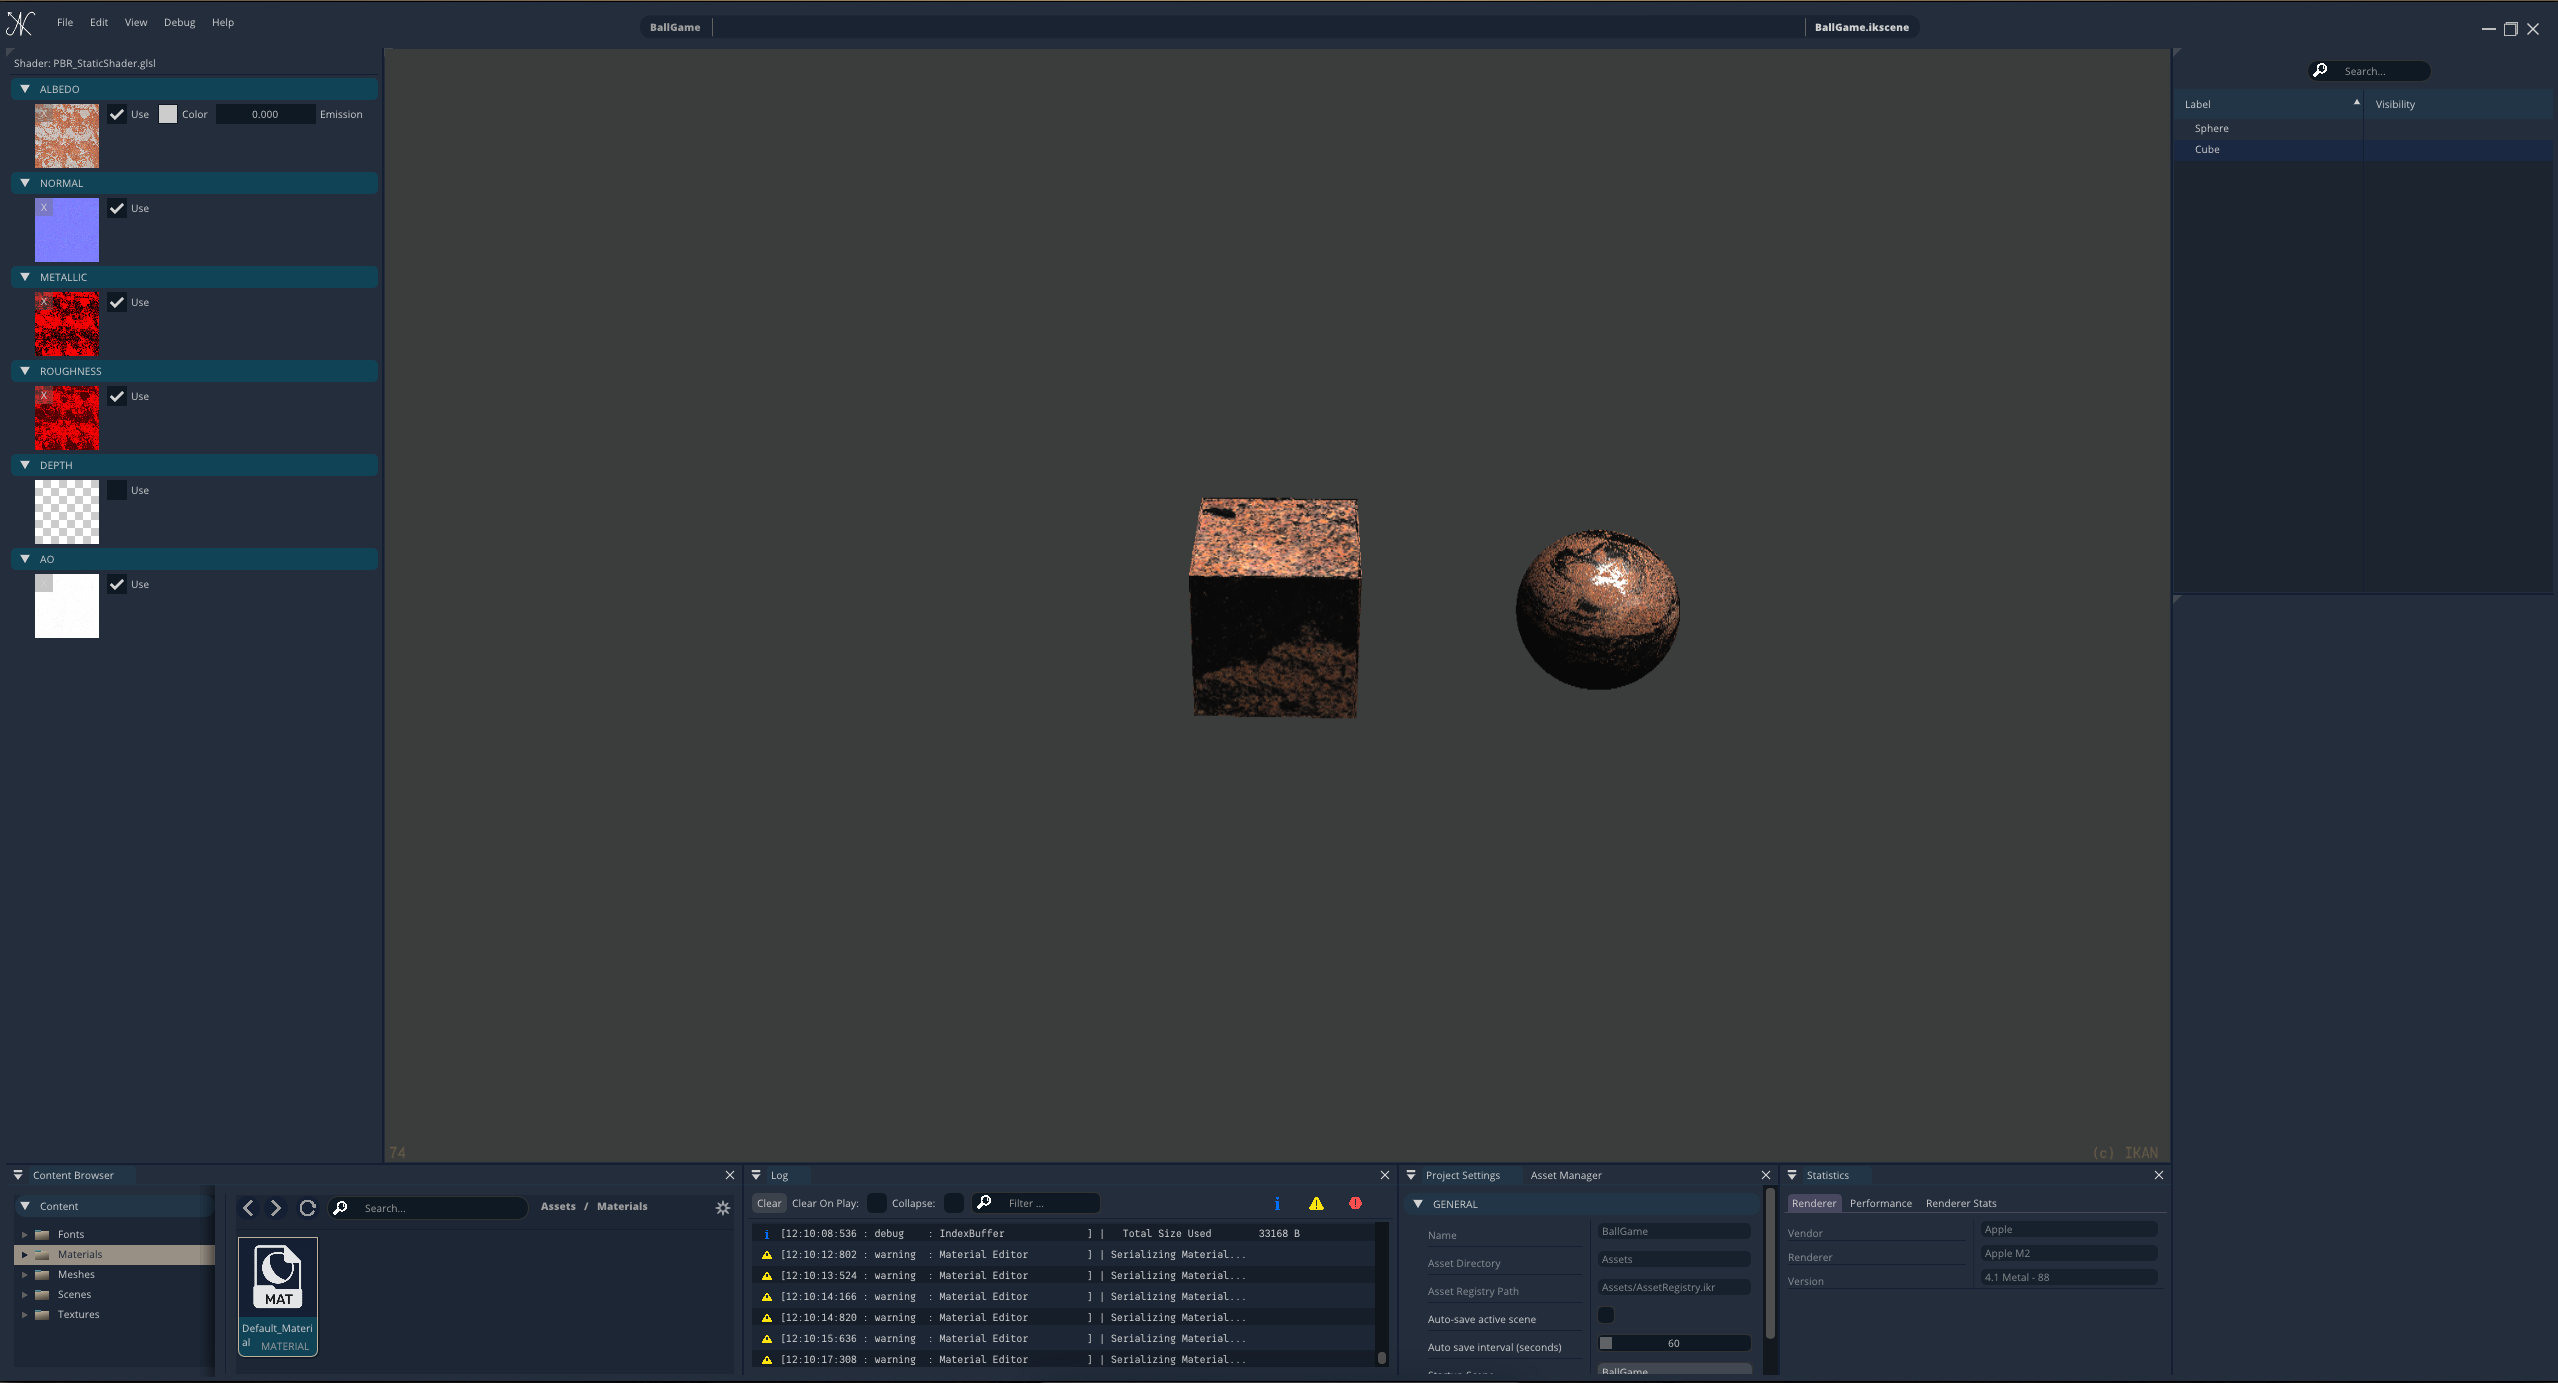
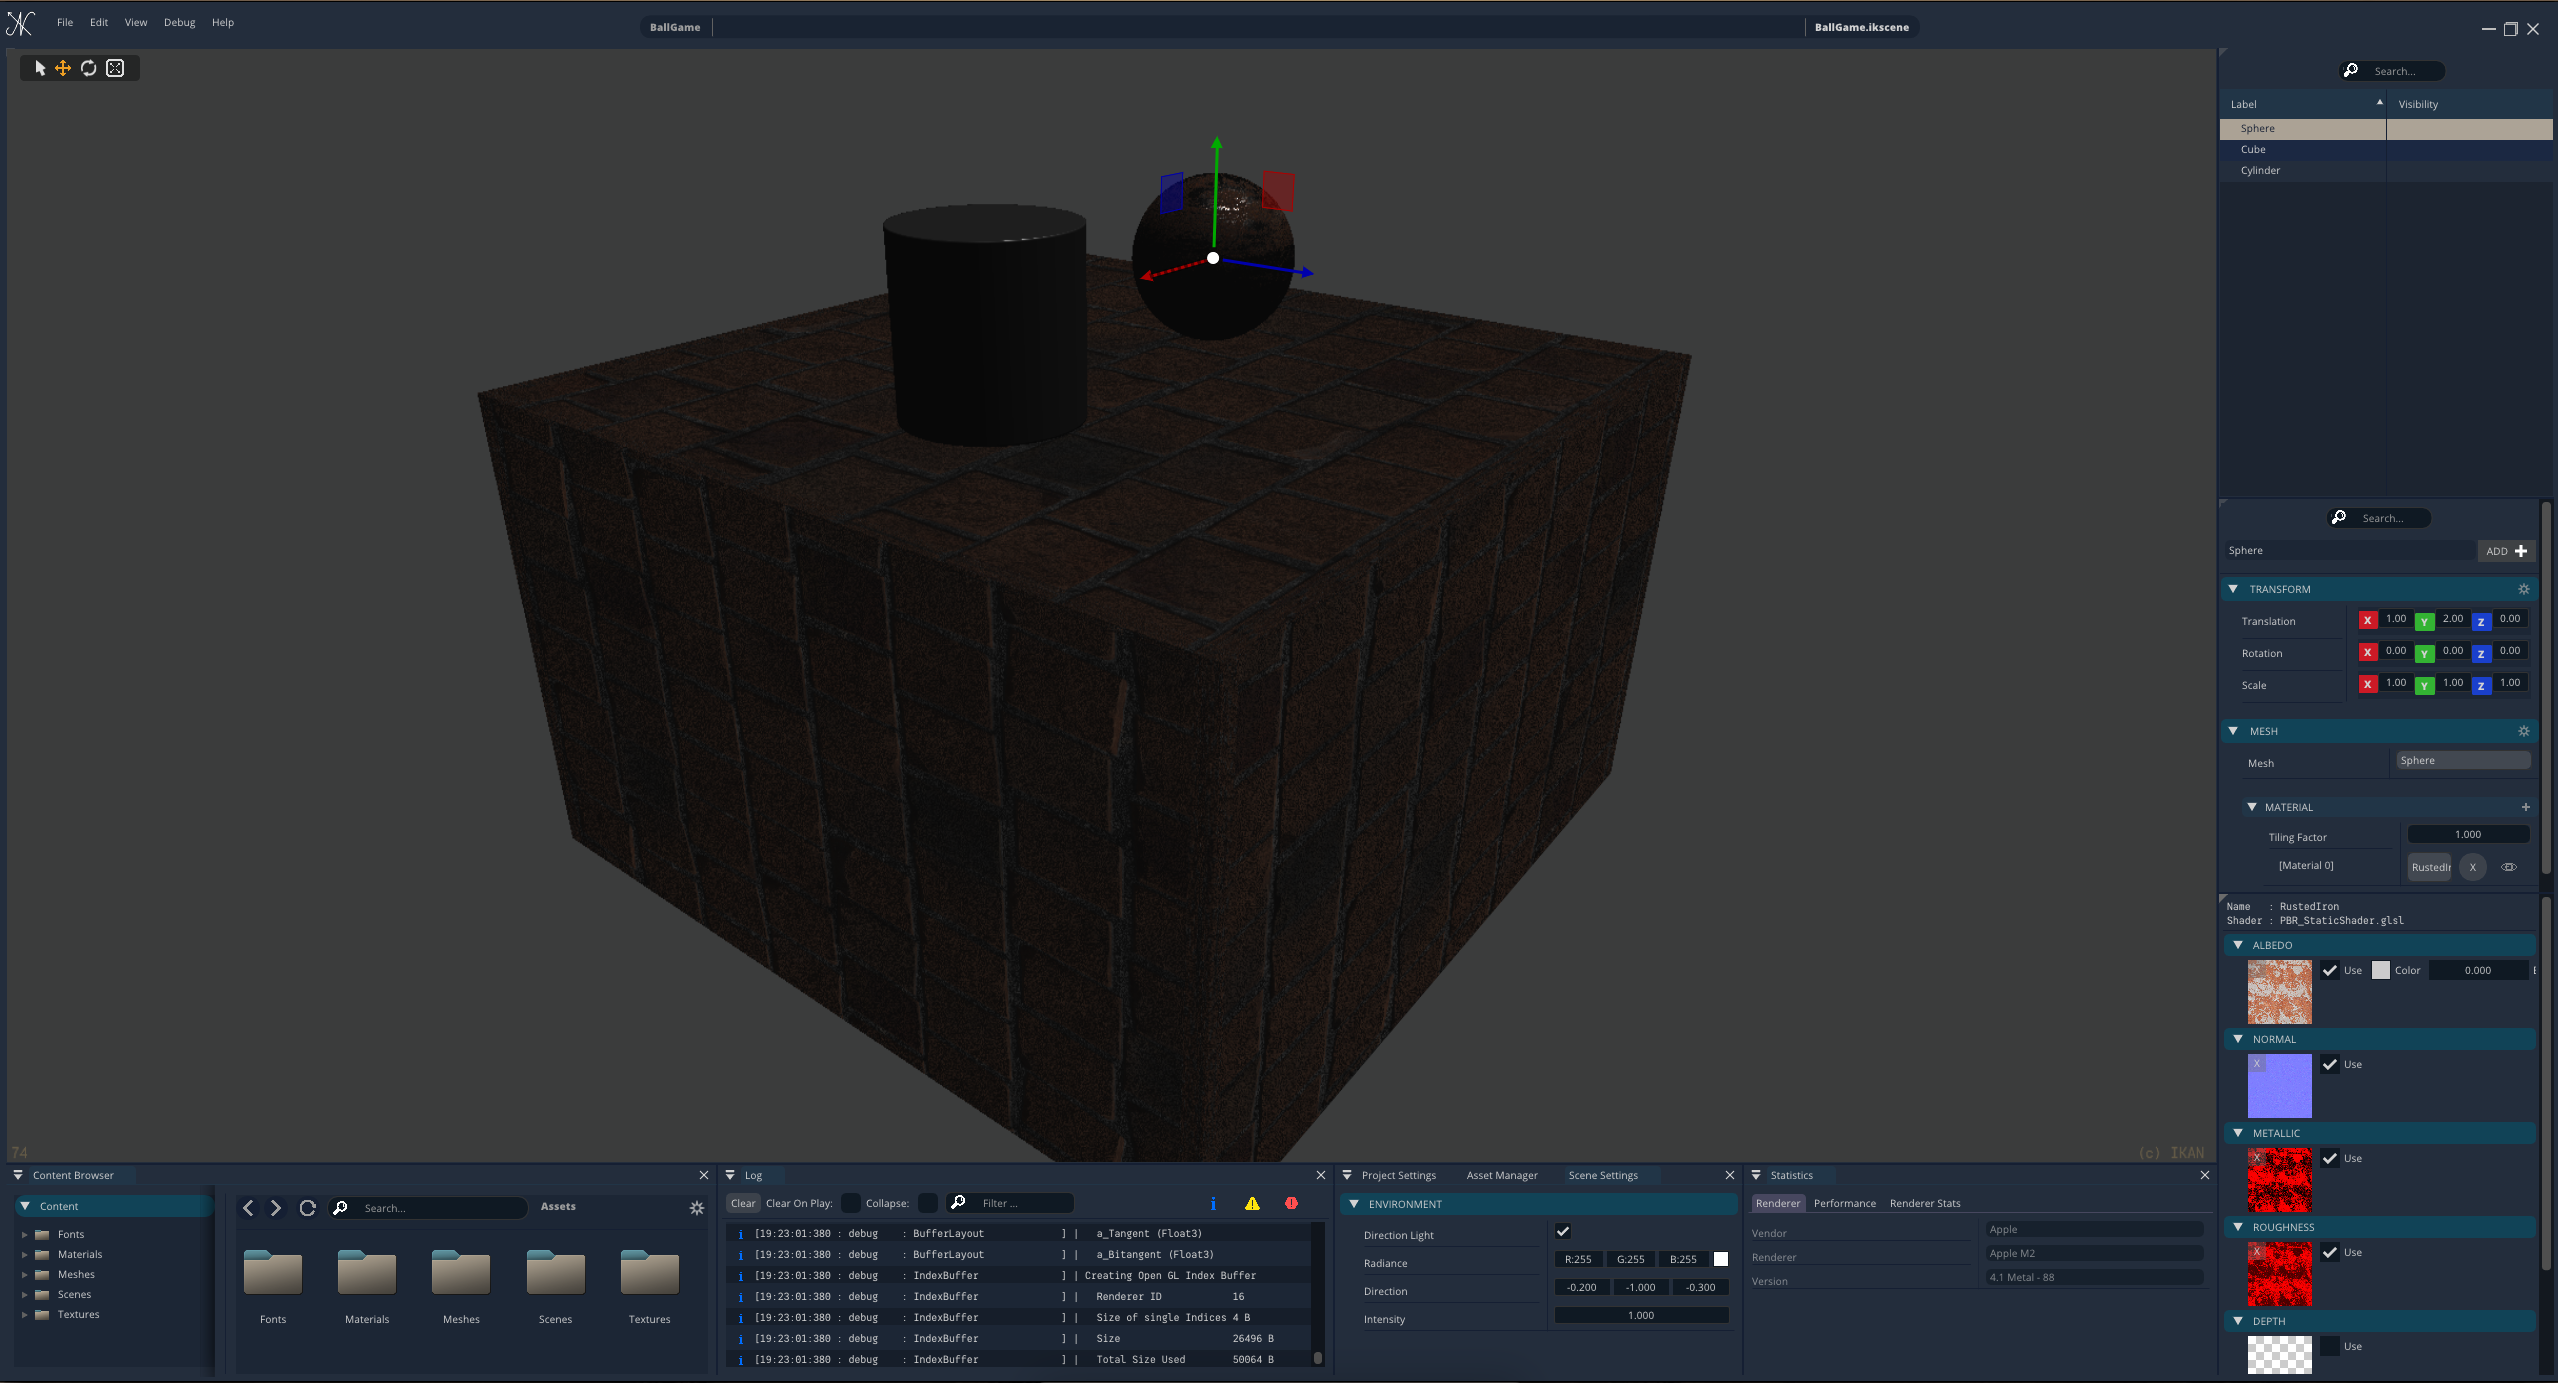
Release v5.3.5.3
Guizmo

diff --git a/Kreator/Kreator/Layer/KreatorLayer.hpp b/Kreator/Kreator/Layer/KreatorLayer.hpp
@@ -14,7 +14,7 @@ using namespace IKan;
 
 namespace Kreator
 {
-  static const std::string KreatorVersion = "5.2";
+  static const std::string KreatorVersion = "5.3";
   
   /// Stores the Viewport Data
   struct Viewport

diff --git a/README.md b/README.md
@@ -104,6 +104,8 @@ Editor Application using IKan Library to create Games
   - Material Editor
 - UI
   - UI Helper
+  - Guizmo (ECS)
+  - Scene Setting (ECS)
 - Panels
   - Konsole Panel
   - Content Browser
@@ -116,9 +118,6 @@ Editor Application using IKan Library to create Games
 - Panel
   - Show and hide entity (SHP)
   - Show and hide components
-- UI
-  - Guizmo (ECS)
-  - Scene Setting (ECS)
 
 ### TODO
 
@@ -141,6 +140,7 @@ Editor Application using IKan Library to create Games
   - v5.1.5.0 : Scene Renderer
   - v5.2.5.1 : Lights and Materials
   - v5.3.5.2 : Material Editor and Serializer
+  - v5.3.5.3 : Guizmo
 
 ## Outputs
 ![](/Kreator/Outputs/Output.png)
